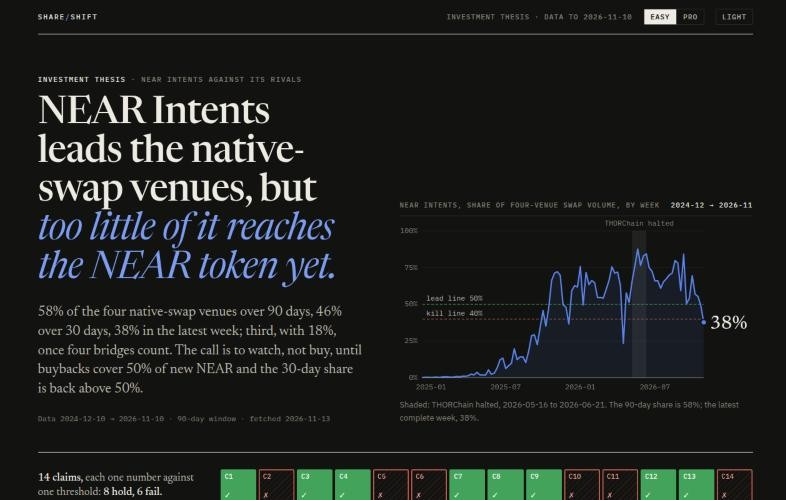
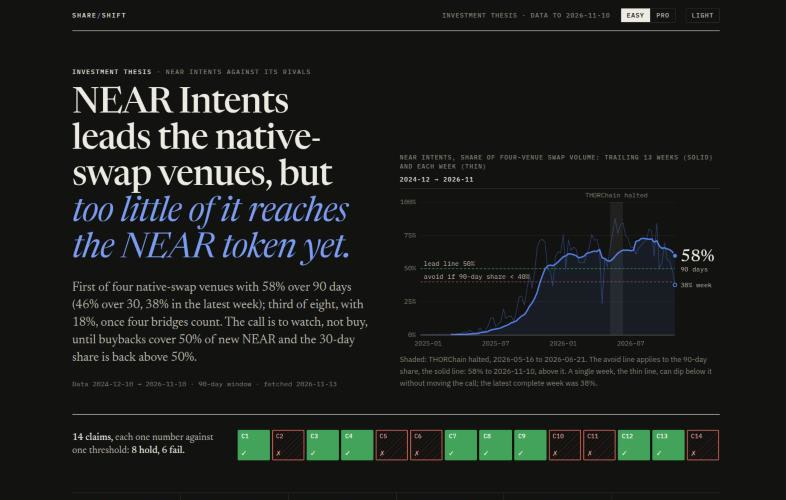
Retake the dashboard screenshot with the 90-day line

diff --git a/README.md b/README.md
@@ -9,7 +9,7 @@ Built at NEAR HACKATHON, track `thesis` (Investment Thesis). The badge is a GitH
 the seal check, `python build.py --offline`, then `git diff --exit-code`, so it
 is green only if the committed files are exactly what the snapshot rebuilds.
 
-[![The dashboard: share by week with the lead and kill lines, and the call](docs/screenshot.jpg)](https://n0ctr1.github.io/share-shift/)
+[![The dashboard: the 90-day and weekly share with the lead and avoid lines, and the call](docs/screenshot.jpg)](https://n0ctr1.github.io/share-shift/)
 
 - Live dashboard: https://n0ctr1.github.io/share-shift/ (Easy shows the short version;
   Pro adds sources, data tables and the full evidence)
